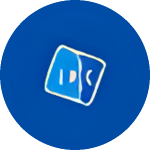
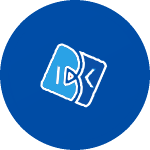
에셋 검수 수리 (진행분): 공용·콕뱅크·하나원큐 검수 지적 반영 중
Claude-Session: https://claude.ai/code/session_01QKJ64Bo4AvFxNJvqUqEAHH

Changed region(s): [[0.2667, 0.2667, 0.72, 0.72]]

diff --git a/practice/bank-app-clone/src/hana/art.ts b/practice/bank-app-clone/src/hana/art.ts
@@ -3,28 +3,28 @@
 // 그림 파일은 잉크 상자만 (1dp 당 3px, 아이콘 마스크는 4px) → artStyle(artbox.ts) · Ic(common.tsx) 가 예전 상자 안 같은 자리에 놓음
 export const ART: Record<string, readonly [number, number, number, number, number, number]> = {
   "hana-bank-bnksec": [51.2, 35.2, 7.667, 11.5, 34.667, 10.667],
-  "hana-bank-bnp": [51.2, 35.2, 13.333, 5, 23.667, 24],
+  "hana-bank-bnp": [51.2, 35.2, 13.333, 5.333, 23.333, 23.333],
   "hana-bank-boa": [51.2, 35.2, 9.667, 8.333, 30.667, 17.333],
   "hana-bank-boc": [51.2, 35.2, 13, 5, 24.333, 24],
-  "hana-bank-bookook": [51.2, 35.2, 8, 5, 34.333, 23],
-  "hana-bank-busan": [51.2, 35.2, 7.667, 12.333, 34.667, 10.667],
+  "hana-bank-bookook": [51.2, 35.2, 8.333, 5.333, 34, 22.667],
+  "hana-bank-busan": [51.2, 35.2, 8.117, 11.953, 34.667, 10.667],
   "hana-bank-cape": [51.2, 35.2, 12.667, 3.667, 25, 25.333],
-  "hana-bank-ccb": [51.2, 35.2, 13.333, 5, 23.333, 24.333],
-  "hana-bank-citi": [51.2, 35.2, 12.333, 6.333, 25.333, 18.333],
-  "hana-bank-daishin": [51.2, 35.2, 13.667, 3.667, 23, 24.667],
-  "hana-bank-daol": [51.2, 35.2, 13, 3.667, 24.333, 25],
+  "hana-bank-ccb": [51.2, 35.2, 13.773, 5.11, 23.333, 24.333],
+  "hana-bank-citi": [51.2, 35.2, 12.773, 6.333, 25.333, 18.333],
+  "hana-bank-daishin": [51.2, 35.2, 14, 5, 22.667, 23],
+  "hana-bank-daol": [51.2, 35.2, 13, 4, 24.333, 24.333],
   "hana-bank-dbsec": [51.2, 35.2, 15.333, 5, 19.667, 24.667],
-  "hana-bank-deutsche": [51.2, 35.2, 14, 5.333, 23.333, 23.333],
+  "hana-bank-deutsche": [51.2, 35.2, 13.62, 5.773, 23.333, 23.333],
   "hana-bank-eugene": [51.2, 35.2, 13, 5, 24.667, 24.667],
   "hana-bank-hana": [51.2, 35.2, 13.333, 4.667, 24.667, 25.667],
   "hana-bank-hanasec": [51.2, 35.2, 13.166, 3, 24.667, 25.667],
-  "hana-bank-hanwha": [51.2, 35.2, 12.667, 5.667, 25, 22.333],
+  "hana-bank-hanwha": [51.2, 35.2, 13.367, 6.027, 25, 22.333],
   "hana-bank-hmsec": [51.2, 35.2, 13.667, 4.667, 23, 24.667],
   "hana-bank-hsbc": [51.2, 35.2, 10, 9.667, 31.333, 16],
-  "hana-bank-ibk": [51.2, 35.2, 11.667, 4.333, 27.667, 26],
+  "hana-bank-ibk": [51.2, 35.2, 11.267, 4.133, 27.667, 26],
   "hana-bank-ibksec": [51.2, 35.2, 11.499, 3, 27.667, 26],
-  "hana-bank-icbc": [51.2, 35.2, 13.333, 5, 24.333, 24],
-  "hana-bank-im": [51.2, 35.2, 10.333, 9.333, 30.667, 15.667],
+  "hana-bank-icbc": [51.2, 35.2, 12.783, 5, 24.333, 24],
+  "hana-bank-im": [51.2, 35.2, 9.913, 9.333, 30.667, 15.667],
   "hana-bank-imsec": [51.2, 35.2, 10, 9, 30.667, 15.667],
   "hana-bank-jb": [51.2, 35.2, 13.667, 5.667, 23.667, 23.667],
   "hana-bank-jeju": [51.2, 35.2, 13, 5.333, 24.333, 24.333],
@@ -34,27 +34,27 @@ export const ART: Record<string, readonly [number, number, number, number, numbe
   "hana-bank-kb": [51.2, 35.2, 11.333, 7.333, 27.667, 20.333],
   "hana-bank-kbank": [51.2, 35.2, 13.333, 5.333, 24.333, 24.333],
   "hana-bank-kbsec": [51.2, 35.2, 11.166, 6.167, 27.667, 20.333],
-  "hana-bank-kdb": [51.2, 35.2, 12, 5.333, 26, 23.333],
+  "hana-bank-kdb": [51.2, 35.2, 12, 5.663, 26, 23.333],
   "hana-bank-kis": [51.2, 35.2, 15, 4.333, 19.667, 24.667],
   "hana-bank-kiwoom": [51.2, 35.2, 15, 4.333, 20.333, 24.667],
   "hana-bank-kj": [51.2, 35.2, 13.333, 5.667, 23.667, 23.667],
   "hana-bank-kn": [51.2, 35.2, 7.667, 12.333, 34.667, 10.667],
   "hana-bank-kyobo": [51.2, 35.2, 12.667, 6, 24.667, 20.667],
-  "hana-bank-ls": [51.2, 35.2, 12.667, 3, 25.667, 26],
+  "hana-bank-ls": [51.2, 35.2, 13, 4, 24.333, 24.333],
   "hana-bank-meritz": [51.2, 35.2, 7.333, 11, 36, 10.667],
   "hana-bank-mg": [51.2, 35.2, 11.333, 5.333, 27.667, 23.667],
   "hana-bank-mirae": [51.2, 35.2, 9, 9.333, 32, 15],
-  "hana-bank-nfcf": [51.2, 35.2, 10.333, 7.333, 30.333, 19],
+  "hana-bank-nfcf": [51.2, 35.2, 9.733, 7.603, 30.333, 19],
   "hana-bank-nh": [51.2, 35.2, 15, 5.333, 20, 24.333],
   "hana-bank-nhsec": [51.2, 35.2, 15.666, 4.667, 20, 24.333],
-  "hana-bank-post": [51.2, 35.2, 10.667, 9.333, 28.667, 16],
+  "hana-bank-post": [51.2, 35.2, 11.207, 9.333, 28.667, 16],
   "hana-bank-samsung": [51.2, 35.2, 7.667, 11, 34.667, 10.667],
   "hana-bank-sangsangin": [51.2, 35.2, 13, 6.333, 25, 20.667],
-  "hana-bank-savings": [51.2, 35.2, 13, 5.333, 24, 24.333],
+  "hana-bank-savings": [51.2, 35.2, 13, 5.666, 24, 24],
   "hana-bank-sc": [51.2, 35.2, 17.333, 5.333, 15.333, 24.333],
   "hana-bank-shinhan": [51.2, 35.2, 13, 5, 24.333, 24.333],
   "hana-bank-shinhansec": [51.2, 35.2, 13, 5, 24.333, 24.333],
-  "hana-bank-shinhyup": [51.2, 35.2, 12.333, 6.333, 25.333, 22.667],
+  "hana-bank-shinhyup": [51.2, 35.2, 12.773, 6.523, 25.333, 22.667],
   "hana-bank-shinyoung": [51.2, 35.2, 12.667, 5, 25, 24],
   "hana-bank-sks": [51.2, 35.2, 10.333, 8, 30, 18],
   "hana-bank-suhyup": [51.2, 35.2, 11, 7, 29, 20.667],
@@ -68,31 +68,31 @@ export const ART: Record<string, readonly [number, number, number, number, numbe
   "hana-banner-2": [138.667, 149.333, 14, 23.667, 118.333, 102],
   "hana-banner-3": [138.667, 149.333, 27, 22, 92.667, 102.333],
   "hana-banner-4": [138.667, 149.333, 16.333, 30, 104.333, 88],
-  "hana-banner-5": [138.667, 149.333, 20.667, 26.667, 93.667, 91],
+  "hana-banner-5": [138.667, 149.333, 20.667, 26.667, 93.667, 90.667],
   "hana-banner-6": [138.667, 149.333, 23.333, 25.333, 91.333, 97.667],
   "hana-banner-7": [138.667, 149.333, 17.333, 24.667, 101.333, 99.667],
   "hana-banner-8": [138.667, 149.333, 16, 25.333, 102.667, 97.333],
   "hana-banner-9": [138.667, 149.333, 25.333, 26, 85.667, 97],
   "hana-chest": [64, 60.8, 7.333, 8, 46.667, 44],
-  "hana-ic-back": [12.267, 20.267, 1.25, 1.25, 10, 18],
+  "hana-ic-back": [12.267, 20.267, 1.25, 0.4, 10, 18],
   "hana-ic-bell": [23.467, 25.6, 1, 1.25, 21.5, 23.75],
-  "hana-ic-chevron-down": [15.467, 9.6, 1.25, 1, 13, 7.5],
+  "hana-ic-chevron-down": [15.467, 9.6, 1.8, 1, 13, 7.5],
   "hana-ic-close": [20.8, 20.8, 1, 1.25, 18.75, 18.5],
-  "hana-ic-copy": [17.067, 17.067, 0.25, 0.25, 16.25, 16.25],
+  "hana-ic-copy": [17.067, 17.067, -0.37, -0.36, 16.25, 16.25],
   "hana-ic-double-down": [18.133, 19.733, 1, 1, 16.25, 17.75],
   "hana-ic-gear": [13.867, 14.933, 0.75, 1, 12.25, 13],
   "hana-ic-more": [5.867, 17.6, 1.25, 1.25, 3.25, 15.25],
-  "hana-ic-my": [25.6, 26.667, 1.25, 1.25, 23.25, 24.5],
+  "hana-ic-my": [25.6, 26.667, 1.79, 1.25, 23.25, 24.5],
   "hana-ic-scan": [28.8, 26.133, 1.25, 0.75, 26.75, 24.25],
   "hana-ic-search": [19.733, 19.733, 1, 1.25, 17.5, 17.25],
   "hana-ic-search-white": [17.067, 16, 1.25, 1.25, 14.75, 14.75],
-  "hana-ic-sort": [13.333, 16, 0.5, 1.25, 11.75, 14.25],
+  "hana-ic-sort": [13.333, 16, -0.29, 1.25, 11.75, 14.25],
   "hana-ic-tab-asset": [21.867, 21.867, 1.25, 1.25, 19.5, 19.5],
   "hana-ic-tab-home": [20.8, 20.267, 1.25, 1, 18.5, 17.75],
   "hana-ic-tab-invest": [20.8, 20.267, 1.25, 0.5, 18.5, 18.75],
-  "hana-ic-tab-menu": [18.133, 15.467, 0.5, 0.25, 16.5, 14.75],
+  "hana-ic-tab-menu": [18.133, 15.467, 0.78, -0.05, 16.5, 14.75],
   "hana-ic-tab-product": [19.733, 19.733, 1, 0.5, 18.25, 18.75],
-  "hana-ic-view-arrow": [9.067, 14.933, 1, 0.5, 7, 14],
+  "hana-ic-view-arrow": [9.067, 14.933, 1, 1.06, 7, 14],
   "hana-ic-wallet": [26.667, 26.667, 1.25, 1.25, 24.5, 24.5],
   "hana-menu-1": [44.8, 44.8, 11.667, 8.333, 22.667, 28],
   "hana-menu-2": [44.8, 44.8, 9.333, 9.333, 26.333, 26],

diff --git a/practice/bank-app-clone/src/nh/common.tsx b/practice/bank-app-clone/src/nh/common.tsx
@@ -68,8 +68,8 @@ export function NhAccountIcon({ size = 26, plain = false }: { size?: number; pla
   );
 }
 
-// 은행 동그라미 아이콘. 카카오뱅크에서 잘라 온 로고는 가장자리에 흰 테두리가 남아 있어서
-// 어두운 콕뱅크 화면에선 살짝 확대해서 원 밖으로 잘라냄. 농협은 콕뱅크의 노란 동그라미(nh-bank)
+// 은행 동그라미 아이콘. 공용 로고(bank-*.png)는 원이 캔버스에 꽉 차서(흰 테두리 없음) 그대로 원 안에.
+// 농협은 콕뱅크의 노란 동그라미(nh-bank)
 export function NhBankIcon({ bank, size = 34 }: { bank: Bank; size?: number }) {
   const logo = localAsset(bank.code === "nh" ? "nh-bank" : `bank-${bank.code}`);
   if (!logo) return <BankIcon bank={bank} size={size} />;

diff --git a/practice/bank-app-clone/src/screens/boot/Splash.css b/practice/bank-app-clone/src/screens/boot/Splash.css
@@ -93,9 +93,10 @@
 /* 앨범 로고: 녹화 멈춘 구간 평균을 4배로 키워 윤곽을 딴 벡터(album-logo.svg, 잉크에 꼭 맞음).
    실제 크기 = 녹화 잉크 128.75 × 35.75px × 0.75. 예전 그림 틀(104 × 37.24) 가운데 그대로라 아래 글자 위치는 안 바뀜 */
 .splash__ad-logo {
-  width: 96.56px;
-  height: 26.81px;
-  margin: 4.95px 4.33px 5.48px 3.1px;
+  width: 96.5625px;
+  height: 26.8125px;
+  /* 바깥 상자 = 예전 104 × 37.2432(1/64px 단위로 37.234375) 그대로 — 0.01px 만 달라도 글자 줄이 픽셀 반올림으로 1px 밀림 */
+  margin: 4.953125px 4.34375px 5.46875px 3.09375px;
 }
 .splash__ad-text {
   margin: 12px 0 14px;

diff --git a/practice/bank-app-clone/src/assets/Asset.css b/practice/bank-app-clone/src/assets/Asset.css
@@ -214,14 +214,14 @@
 .asset--friends.asset--local > img {
   left: 12.93px;
   top: 11.72px;
-  width: 145.66px;
+  width: 145.33px;
   height: 99.12px;
 }
 /* 카드 둘: 다크 홈(바탕 #272727)에서 잘라 흰 부분까지 깨끗한 누끼. 예전과 같은 배율(26×37 칸에 cover = 원본 px × 0.514).
    아래 끝 = 끈 고리 끝(원본 1037px) → 끈(.spend__thumb::after)이 바로 이어짐 */
 .asset--card.asset--local > img {
-  left: -0.02px;
-  top: 0.34px;
-  width: 26.04px;
-  height: 35.63px;
+  left: 0.323px;
+  top: 0.683px;
+  width: 25.697px;
+  height: 35.287px;
 }

diff --git a/practice/bank-app-clone/src/nh/NhHome.tsx b/practice/bank-app-clone/src/nh/NhHome.tsx
@@ -176,7 +176,7 @@ const TILES: {
     sub: "한정수량!",
     title: "특판상품",
     img: "nh-gh-tile-sale",
-    at: [309.6, 1246.2, 36, 36.2],
+    at: [309, 1246.2, 36, 36.2],
   },
   {
     sub: "내게 딱맞는!",
@@ -322,7 +322,7 @@ export function NhHome() {
               </span>
               <Img
                 name="nh-gh-mydata"
-                at={[274.4, 1527, 56.8, 55.8]}
+                at={[274.4, 1525.5, 56.8, 55.8]}
                 base={[24, 1493.6]}
               />
             </button>

diff --git a/practice/bank-app-clone/src/screens/transfer/Transfer.css b/practice/bank-app-clone/src/screens/transfer/Transfer.css
@@ -221,6 +221,15 @@
 .bank-sheet__item:active {
   opacity: 0.6;
 }
+/* 녹화의 로고 원 지름은 20.5px (자리 22px 은 그대로, 가운데에) */
+.bank-sheet__item > img {
+  width: 20.5px;
+  height: 20.5px;
+  margin: 0 0.75px;
+}
+.bank-sheet__item > .kakao-circle {
+  transform: scale(0.9318); /* 22 → 20.5 */
+}
 
 /* ---------- 계좌번호 입력 시트 ---------- */
 .number-sheet {

diff --git a/practice/bank-app-clone/src/nh/NhAccounts.tsx b/practice/bank-app-clone/src/nh/NhAccounts.tsx
@@ -660,7 +660,7 @@ export function NhRegister() {
               name="nh-register-char"
               w={104}
               h={89.6}
-              ink={[3.33, 3, 97.33, 83.27]}
+              ink={[3.88, 3, 97.33, 83.27]}
               className="nh-reg__char"
               fallback={<span />}
             />

diff --git a/practice/bank-app-clone/src/nh/nh.css b/practice/bank-app-clone/src/nh/nh.css
@@ -396,7 +396,6 @@
   display: block;
   width: 100%;
   height: 100%;
-  transform: scale(1.1); /* 가장자리 흰 테두리를 원 밖으로 */
 }
 .nh-seg--box {
   align-self: center;
